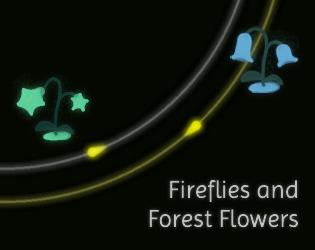
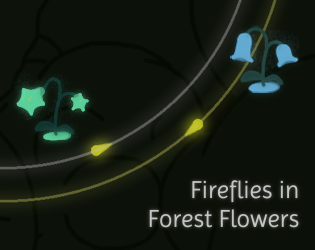
Add showcase mode; update cover image & screenshot

diff --git a/scene_game.cc b/scene_game.cc
@@ -77,6 +77,7 @@ public:
       return t;
     }
     inline void ripples(int T, float &dist, float &alpha) const {
+#ifndef SHOWCASE
       if (flags & RETURN) {
         float phase = (float)((T + 450) % 900) / 600;
         if (phase < 1) {
@@ -91,6 +92,7 @@ public:
           alpha = (19 * expf(-5.9 * phase) * sin(phase) * (1 - phase)) * 0.6;
         }
       }
+#endif
     }
   };
 
@@ -487,7 +489,15 @@ public:
   int run_state = (8 << 1); // Initial speed 8 steps/update
   int finish_timer = -1;
 
-  const float RT_SCALE = 2; // Scaling factor for render targets
+  // Scaling factor for render targets
+  const float RT_SCALE_BASE = 2;
+  const float RT_SCALE_BLOOM =
+#ifdef SHOWCASE
+    2
+#else
+    1
+#endif
+  ;
   rl::RenderTexture2D texBloomBase, texBloomStage1, texBloomStage2;
   rl::Shader shaderBloom;
   int shaderBloomPassLoc;
@@ -546,12 +556,15 @@ public:
     update_tut_show_range(true);
     tut_hide_time = -1;
 
-    texBloomBase = rl::LoadRenderTexture(W * RT_SCALE, H * RT_SCALE);
+    texBloomBase = rl::LoadRenderTexture(W * RT_SCALE_BASE, H * RT_SCALE_BASE);
     rl::SetTextureFilter(texBloomBase.texture, rl::TEXTURE_FILTER_BILINEAR);
-    texBloomStage1 = rl::LoadRenderTexture(W * RT_SCALE, H * RT_SCALE);
+    rl::SetTextureWrap(texBloomBase.texture, rl::TEXTURE_WRAP_CLAMP);
+    texBloomStage1 = rl::LoadRenderTexture(W * RT_SCALE_BLOOM, H * RT_SCALE_BLOOM);
     rl::SetTextureFilter(texBloomStage1.texture, rl::TEXTURE_FILTER_BILINEAR);
-    texBloomStage2 = rl::LoadRenderTexture(W * RT_SCALE, H * RT_SCALE);
+    rl::SetTextureWrap(texBloomStage1.texture, rl::TEXTURE_WRAP_CLAMP);
+    texBloomStage2 = rl::LoadRenderTexture(W * RT_SCALE_BLOOM, H * RT_SCALE_BLOOM);
     rl::SetTextureFilter(texBloomStage2.texture, rl::TEXTURE_FILTER_BILINEAR);
+    rl::SetTextureWrap(texBloomStage2.texture, rl::TEXTURE_WRAP_CLAMP);
   #ifdef PLATFORM_WEB
     shaderBloom = rl::LoadShader("res/bloom_web.vert", "res/bloom_web.frag");
     shaderSpotlight = rl::LoadShader("res/spotlight_web.vert", "res/spotlight_web.frag");
@@ -765,6 +778,15 @@ public:
 
   bool last_space_down = false;
   bool last_tab_down = false;
+#ifndef SHOWCASE
+  #define show_title true
+  #define show_grid true
+#else
+  bool show_title = true;
+  bool show_grid = true;
+  bool last_1_down = false;
+  bool last_2_down = false;
+#endif
   void update() {
     T++;
     if (finish_timer >= 0) finish_timer++;
@@ -795,6 +817,15 @@ public:
       btn_speed();
     }
     last_tab_down = tab_down;
+
+#ifdef SHOWCASE
+    bool _1_down = rl::IsKeyDown(rl::KEY_ONE);
+    if (!last_1_down && _1_down) show_title = !show_title;
+    last_1_down = _1_down;
+    bool _2_down = rl::IsKeyDown(rl::KEY_TWO);
+    if (!last_2_down && _2_down) show_grid = !show_grid;
+    last_2_down = _2_down;
+#endif
 
     if (run_state & 1) for (int i = 0; i < (run_state >> 1); i++) {
       for (auto &f : fireflies) f.update(tracks);
@@ -891,15 +922,17 @@ public:
     }
 
     // Rule grid
-    int x_range = (W / 2 / SCALE) + 1;
-    for (int i = -x_range; i <= x_range; i++) {
-      float x = scr(vec2(i, 0)).x;
-      DrawLineV((Vector2){x, 0}, (Vector2){x, H}, (Color){30, 30, 30, 255});
-    }
-    int y_range = (H / 2 / SCALE) + 1;
-    for (int i = -y_range; i <= y_range; i++) {
-      float y = scr(vec2(0, i)).y;
-      DrawLineV((Vector2){0, y}, (Vector2){W, y}, (Color){30, 30, 30, 255});
+    if (show_grid) {
+      int x_range = (W / 2 / SCALE) + 1;
+      for (int i = -x_range; i <= x_range; i++) {
+        float x = scr(vec2(i, 0)).x;
+        DrawLineV((Vector2){x, 0}, (Vector2){x, H}, (Color){30, 30, 30, 255});
+      }
+      int y_range = (H / 2 / SCALE) + 1;
+      for (int i = -y_range; i <= y_range; i++) {
+        float y = scr(vec2(0, i)).y;
+        DrawLineV((Vector2){0, y}, (Vector2){W, y}, (Color){30, 30, 30, 255});
+      }
     }
 
     // Render scaled to texture
@@ -907,7 +940,7 @@ public:
 
     Color bg = (Color){0, 0, 0, 0};
     BeginTextureMode(texBloomBase);
-    BeginMode2D((Camera2D){(Vector2){0, 0}, (Vector2){0, 0}, 0, RT_SCALE});
+    BeginMode2D((Camera2D){(Vector2){0, 0}, (Vector2){0, 0}, 0, RT_SCALE_BASE});
       ClearBackground(bg);
       for (const auto t : tracks) t->draw(T);
       for (const auto &f : fireflies) f.draw(trail_m.pointer);
@@ -916,13 +949,13 @@ public:
 
     int pass;
     BeginTextureMode(texBloomStage1);
-    BeginMode2D((Camera2D){(Vector2){0, 0}, (Vector2){0, 0}, 0, RT_SCALE});
+    BeginMode2D((Camera2D){(Vector2){0, 0}, (Vector2){0, 0}, 0, RT_SCALE_BLOOM});
     pass = 1;
     SetShaderValue(shaderBloom, shaderBloomPassLoc, &pass, SHADER_UNIFORM_INT);
     BeginShaderMode(shaderBloom);
       ClearBackground(bg);
       DrawTexturePro(texBloomBase.texture,
-        (Rectangle){0, 0, W * RT_SCALE, -H * RT_SCALE},
+        (Rectangle){0, 0, W * RT_SCALE_BASE, -H * RT_SCALE_BASE},
         (Rectangle){0, 0, W, H},
         (Vector2){0, 0}, 0, WHITE);
     EndShaderMode();
@@ -930,13 +963,13 @@ public:
     EndTextureMode();
 
     BeginTextureMode(texBloomStage2);
-    BeginMode2D((Camera2D){(Vector2){0, 0}, (Vector2){0, 0}, 0, RT_SCALE});
+    BeginMode2D((Camera2D){(Vector2){0, 0}, (Vector2){0, 0}, 0, RT_SCALE_BLOOM});
     pass = 2;
     SetShaderValue(shaderBloom, shaderBloomPassLoc, &pass, SHADER_UNIFORM_INT);
     BeginShaderMode(shaderBloom);
       ClearBackground(bg);
       DrawTexturePro(texBloomStage1.texture,
-        (Rectangle){0, 0, W * RT_SCALE, -H * RT_SCALE},
+        (Rectangle){0, 0, W * RT_SCALE_BLOOM, -H * RT_SCALE_BLOOM},
         (Rectangle){0, 0, W, H},
         (Vector2){0, 0}, 0, WHITE);
     EndShaderMode();
@@ -951,16 +984,17 @@ public:
     for (const auto b : bellflowers) b->draw1(finish_anim);
 
     DrawTexturePro(texBloomBase.texture,
-      (Rectangle){0, 0, W * RT_SCALE, -H * RT_SCALE},
+      (Rectangle){0, 0, W * RT_SCALE_BASE, -H * RT_SCALE_BASE},
       (Rectangle){0, 0, W, H},
       (Vector2){0, 0}, 0, (Color){255, 255, 255, 160});
     DrawTexturePro(texBloomStage2.texture,
-      (Rectangle){0, 0, W * RT_SCALE, -H * RT_SCALE},
+      (Rectangle){0, 0, W * RT_SCALE_BLOOM, -H * RT_SCALE_BLOOM},
       (Rectangle){0, 0, W, H},
       (Vector2){0, 0}, 0, WHITE);
 
     for (const auto b : bellflowers) b->draw2(finish_anim);
 
+#ifndef SHOWCASE
     // Tutorials
     float tut_alpha = 1;
     if (tut_hide_time >= 0) {
@@ -998,14 +1032,17 @@ public:
 
     // Buttons
     buttons.draw();
+#endif
 
     // Title
-    char title_text[64];
-    snprintf(title_text, sizeof title_text,
-      "%02d. %s", puzzle_id, title);
-    painter::text(title_text, 36,
-      vec2(20, H - 20),
-      vec2(0, 1), tint4(0.9, 0.9, 0.9, 1));
+    if (show_title) {
+      char title_text[64];
+      snprintf(title_text, sizeof title_text,
+        "%02d. %s", puzzle_id, title);
+      painter::text(title_text, 36,
+        vec2(20, H - 20),
+        vec2(0, 1), tint4(0.9, 0.9, 0.9, 1));
+    }
   }
 };
 

diff --git a/main.cc b/main.cc
@@ -7,6 +7,10 @@ using namespace rl;
 
 #include <cmath>
 
+#ifdef SHOWCASE
+#include <ctime>
+#endif
+
 char lang = 0;
 
 static scene *cur_scene, *prev_scene = NULL;
@@ -15,7 +19,7 @@ static int transition_timer;
 static bool pt_laston = false;
 static float pt_lastx, pt_lasty;
 
-static float time = 0;
+static float cum_time = 0;
 const float STEP = 1.0f / 240;
 
 Music bgm[2];
@@ -63,9 +67,9 @@ static void update_draw_frame()
   pt_laston = pt_on;
 
   // Update
-  time += GetFrameTime();
-  while (time >= STEP) {
-    time -= STEP;
+  cum_time += GetFrameTime();
+  while (cum_time >= STEP) {
+    cum_time -= STEP;
     cur_scene->update();
     // Transition
     if (prev_scene != NULL) {
@@ -97,6 +101,14 @@ static void update_draw_frame()
   }
 
   EndDrawing();
+
+#ifdef SHOWCASE
+  if (IsKeyPressed(KEY_ENTER)) {
+    char name[64];
+    snprintf(name, sizeof name, "%u.png", (unsigned)time(NULL));
+    TakeScreenshot(name);
+  }
+#endif
 }
 
 int main(int argc, char *argv[])
